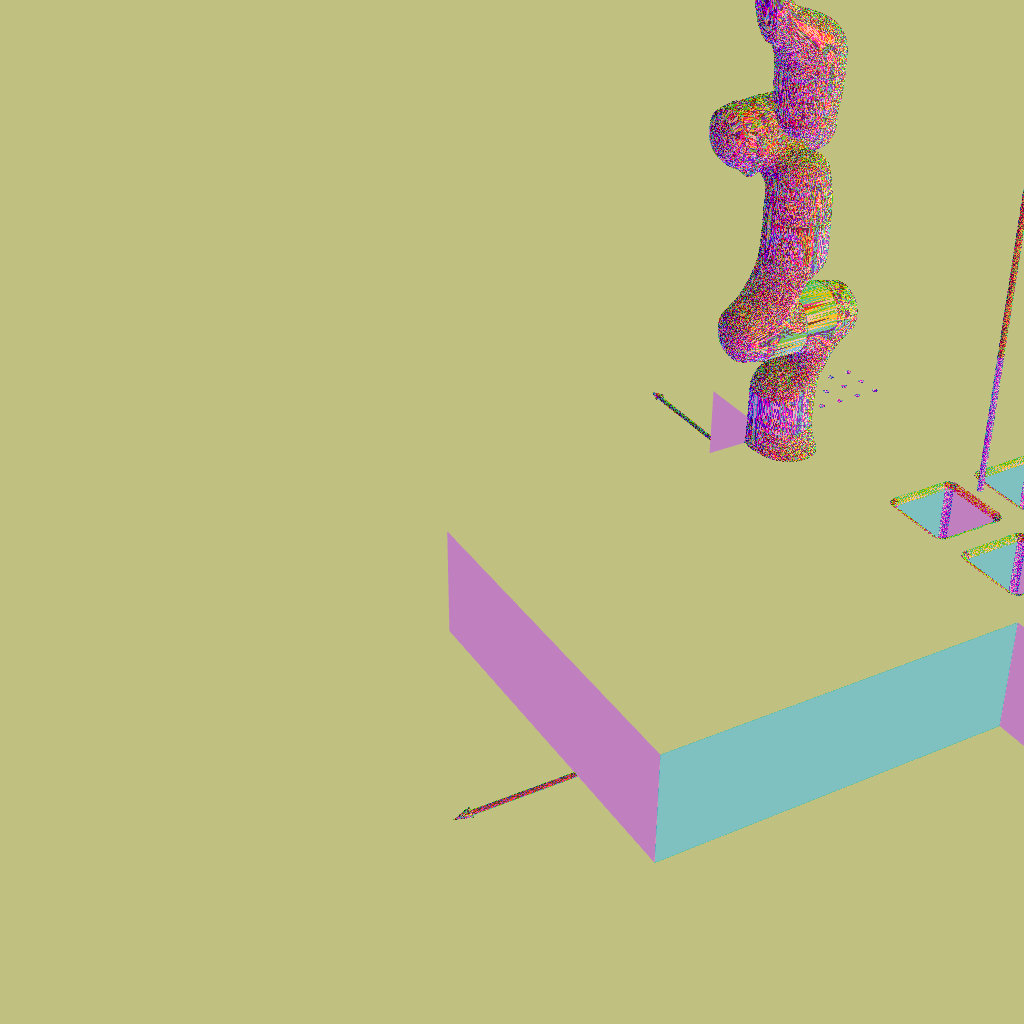
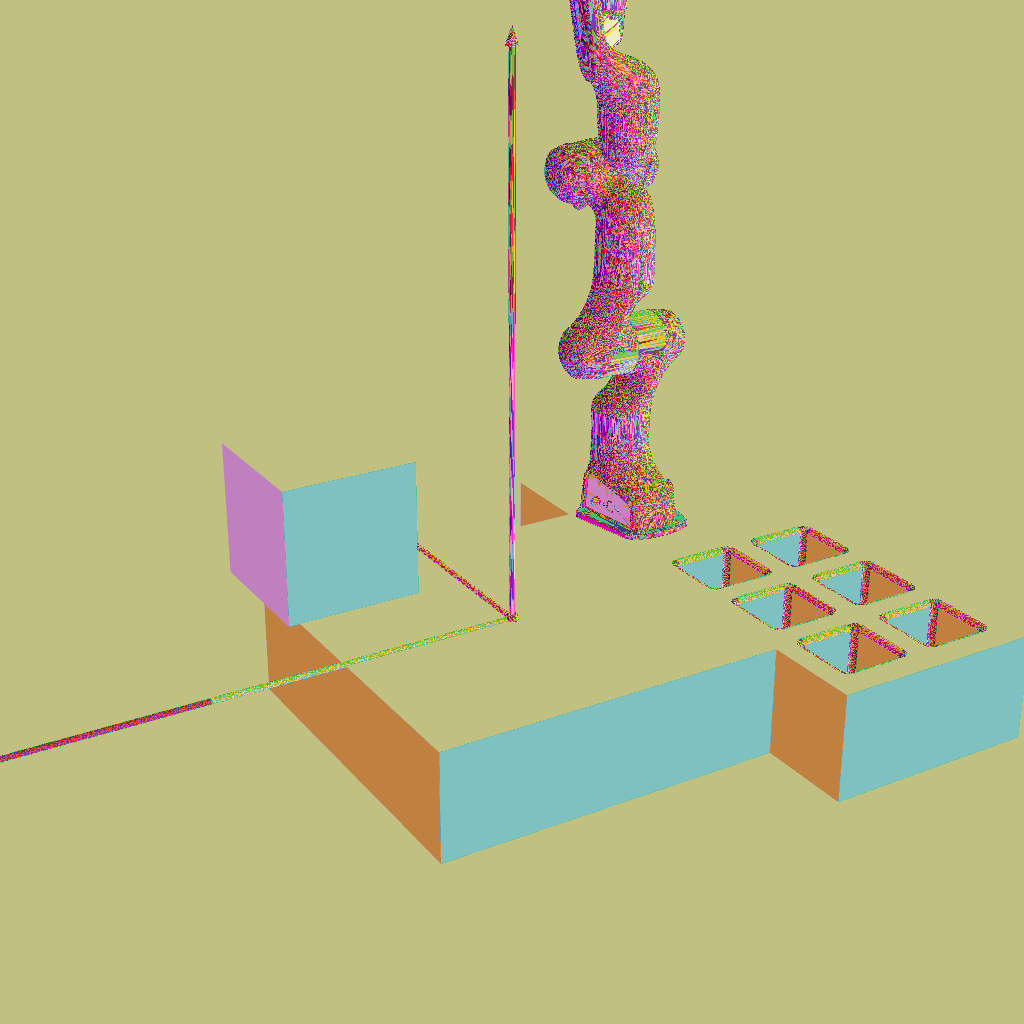
(fixed) Positioning and visualization fix in scene creation funnel

diff --git a/repairs_components/processing/scene_creation_funnel.py b/repairs_components/processing/scene_creation_funnel.py
@@ -48,6 +48,7 @@ def create_random_scenes(
             starting_scene_geom_ = starting_state_geom(
                 env_setup, task, env_size=(64, 64, 64)
             )  # create task... in a for loop...
+            # note: at the moment the starting scene goes out of bounds a little, but whatever, it'll only generalize better.
             desired_state_geom_ = desired_state_geom(
                 env_setup, task, env_size=(64, 64, 64)
             )
@@ -111,6 +112,8 @@ def create_random_scenes(
         "gs_entities['box@solid'].get_AABB():",
         initial_gs_entities["box@solid"].get_AABB(),
     )
+    # to have gs_entities positions updated in visuals too, update the visual states.
+    first_desired_scene.visualizer.update_visual_states()
 
     # note: RepairsSimState comparison won't work without moving the desired physical state by `move_by` from base env.
     return (
@@ -168,7 +171,8 @@ def add_base_scene_geometry(scene: gs.Scene):
             pos=(0, -(0.64 / 2 + 0.2), -0.2),
             euler=(90, 0, 0),  # Rotate 90 degrees around X axis
         ),
-        surface=gs.surfaces.Plastic(color=(1.0, 0.7, 0.3, 1)),  # Add color material
+        surface=gs.surfaces.Plastic(color=(1.0, 0.7, 0.3, 0.3)),  # Add color material
+        # 0.3 alpha for debug.
     )
     franka = scene.add_entity(
         gs.morphs.MJCF(

diff --git a/repairs_components/processing/translation.py b/repairs_components/processing/translation.py
@@ -41,12 +41,15 @@ def translate_to_genesis_scene(
             if part_type == "solid":
                 # move gltf to 0,0,0 on center... later will be replaced back to it's original position.
                 # this is done to have a 0,0,0 origin for the mesh, which will be useful for physical state translation
+                center = child.center(CenterOf.BOUNDING_BOX)
                 export_gltf(
-                    child.moved(Pos(-child.center(CenterOf.BOUNDING_BOX))),
+                    child.moved(Pos(-center)),
                     gltf_path,
                     unit=Unit.CM,
                 )
-                mesh = gs.morphs.Mesh(file=gltf_path)
+                mesh = gs.morphs.Mesh(file=gltf_path)  # pos=center.to_tuple()
+                # technically, the `pos` should not do nothing, because it will be overriden by set_pos later.
+                # however it does? I don't see my object later.
             elif part_type == "connector":
                 connector: Connector = sim_state.electronics_state.components[label]  # type: ignore
                 mjcf = connector.get_mjcf()

diff --git a/repairs_components/processing/tasks.py b/repairs_components/processing/tasks.py
@@ -190,7 +190,7 @@ class AssembleTask(Task):
         return placed
 
     def perturb_initial_state(
-        self, compound: Compound, env_size=(1000, 1000, 1000)
+        self, compound: Compound, env_size=(64, 64, 64)
     ) -> Compound:
         """Randomly disassemble the compound into individual parts with non-overlapping positions.
 
